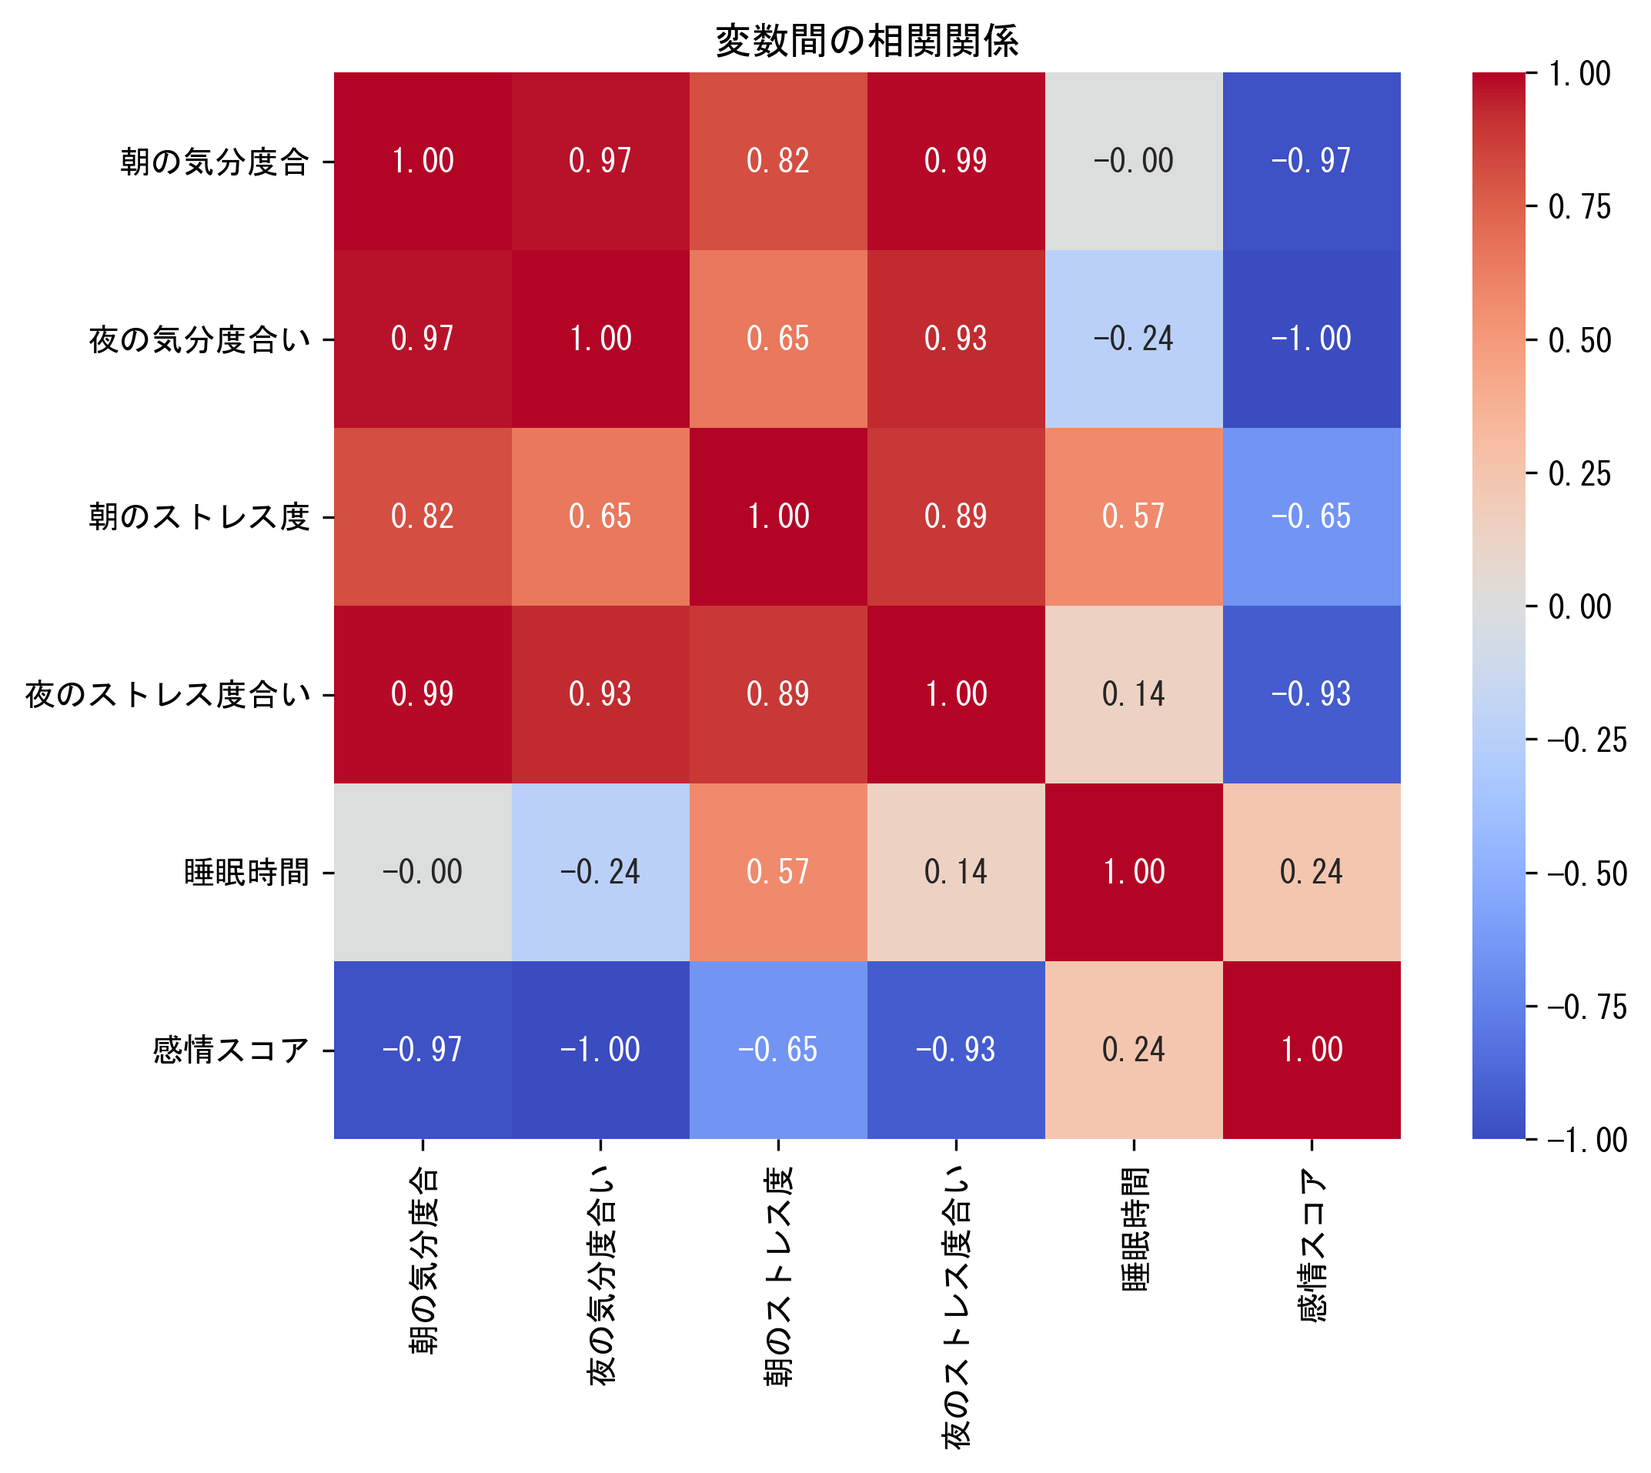
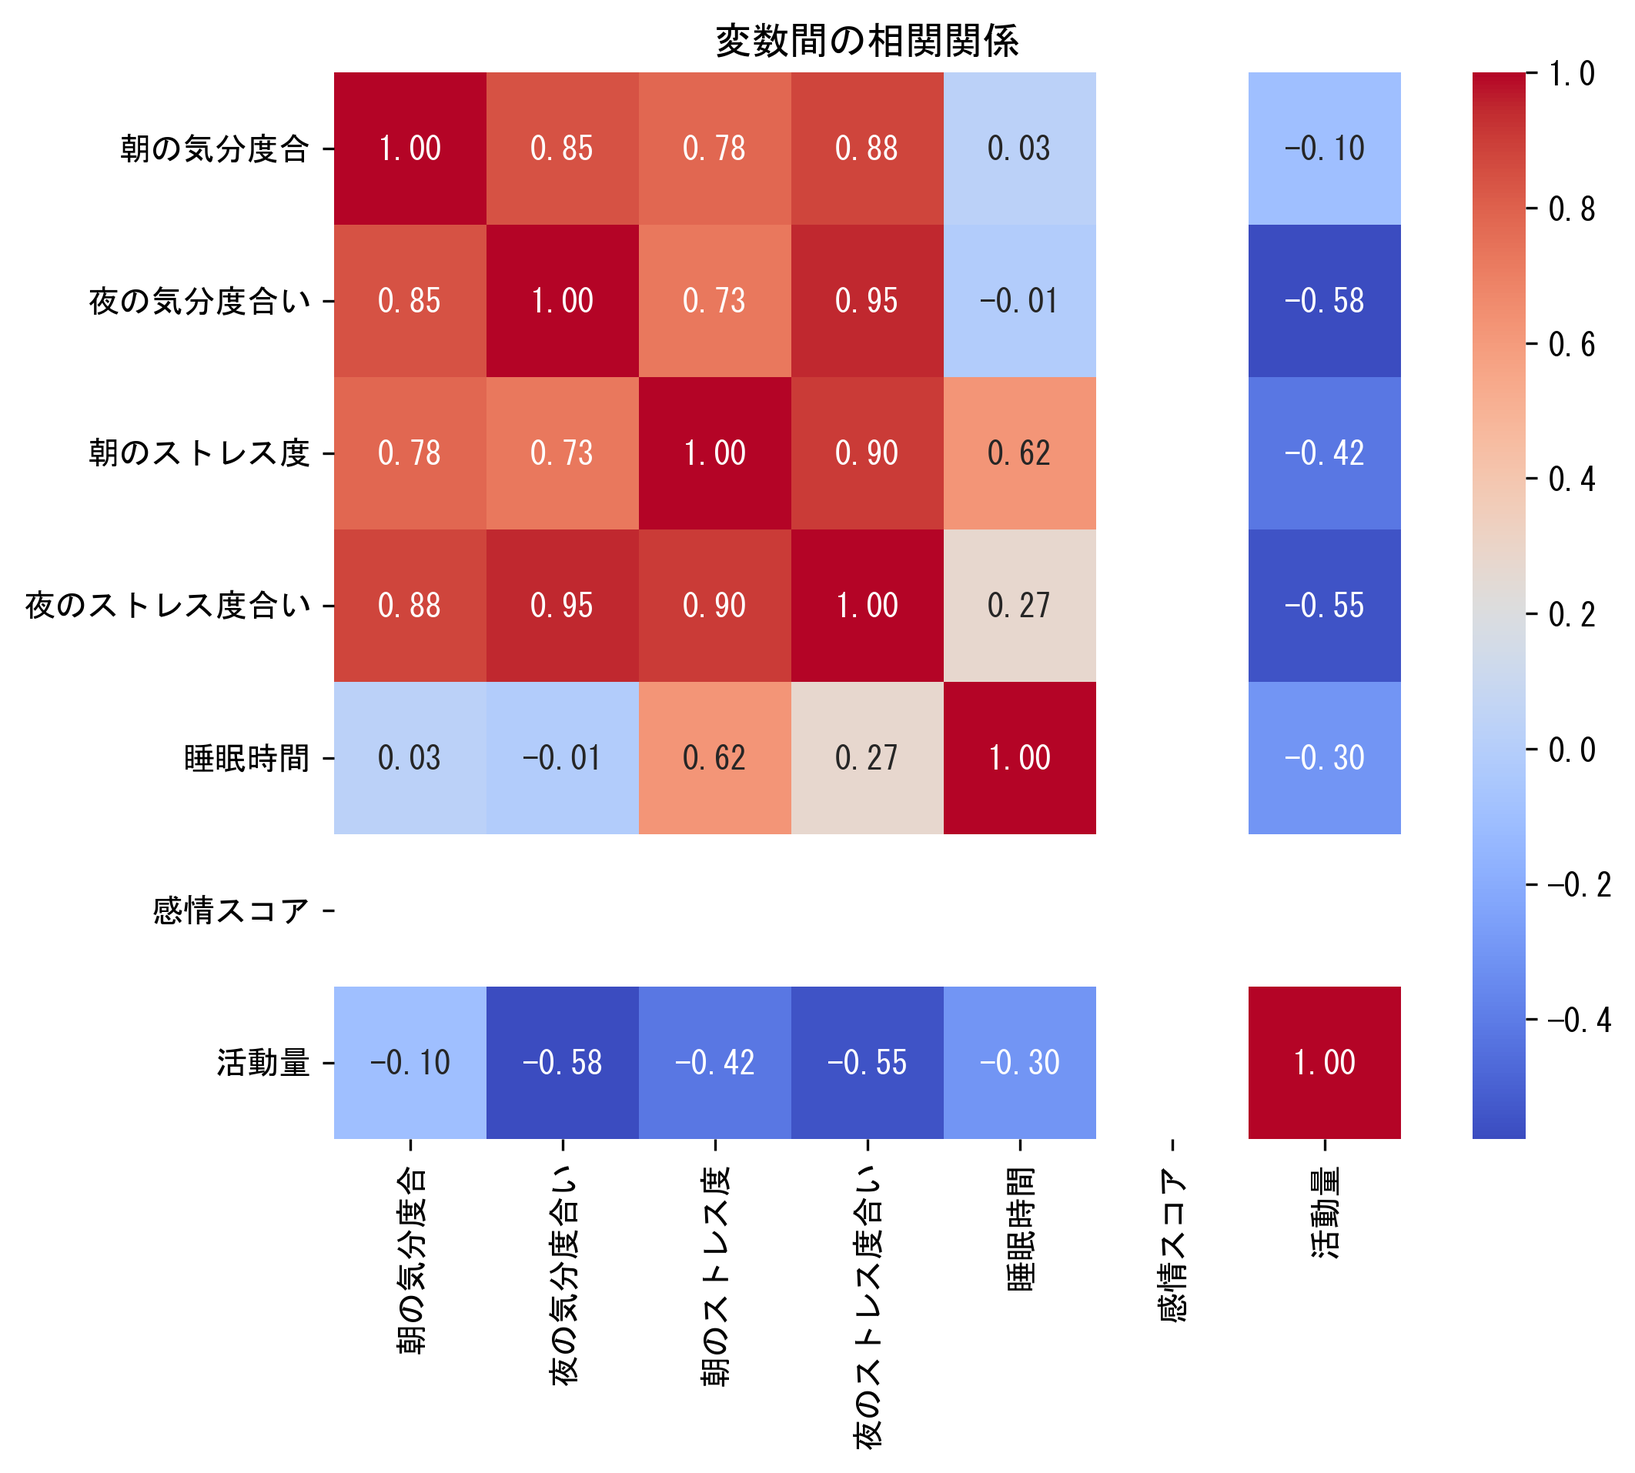
Correlation between mood and activity level

diff --git a/main.py b/main.py
@@ -6,10 +6,10 @@ import seaborn as sns
 from wordcloud import WordCloud
 import os
 
-# OpenAI APIキーの設定 もしくは環境変数を設定して取得するほうが良いかも。
-openai.api_key ="ここにOPENAIのAPI_KEY"
+# OpenAI APIキーの設定
+openai.api_key = "ここにOPENAIのAPI_KEY"
 
-# フォント設定（日本語対応）フォントはウィンドウズ対応にしているが、OSに応じて適宜変更
+# フォント設定（日本語対応）
 import matplotlib
 matplotlib.rc('font', family='MS Gothic')
 font_path = "C:/Windows/Fonts/msgothic.ttc"
@@ -35,9 +35,9 @@ else:
     exit()
 
 # 日付データの型変換
-data['日付'] = pd.to_datetime(data['日付'])
+data['日付'] = pd.to_datetime(data['日付'], errors='coerce')
 
-# 睡眠時間を時間に変換
+# 睡眠時間を時間に変換（文字列を "X:XX:XX" → float 時間）
 data['睡眠時間'] = pd.to_timedelta(data['睡眠時間'], errors='coerce').dt.total_seconds() / 3600
 
 # OpenAI API経由で感情分析を実行する関数
@@ -54,8 +54,6 @@ def analyze_sentiment_api(text):
                 {"role": "user", "content": text}
             ],
         )
-
-        # レスポンスはクラスオブジェクトとして返されるので、ドット記法でアクセス
         sentiment = response.choices[0].message.content.strip()
         return sentiment
 
@@ -76,13 +74,15 @@ def convert_sentiment_to_score(sentiment):
 
 data["感情スコア"] = data["感情分析結果"].apply(convert_sentiment_to_score)
 
-# 保存用フォルダ
+# 保存用フォルダの作成
 graph_folder = os.path.join(output_folder, "graphs")
 report_folder = os.path.join(output_folder, "reports")
 os.makedirs(graph_folder, exist_ok=True)
 os.makedirs(report_folder, exist_ok=True)
 
+########################
 # 1. 気分とストレスの時系列グラフの保存
+########################
 plt.figure(figsize=(12, 6))
 plt.plot(data['日付'], data['朝の気分度合'], label='朝の気分度合', marker='o')
 plt.plot(data['日付'], data['夜の気分度合い'], label='夜の気分度合い', marker='o')
@@ -96,7 +96,9 @@ plt.grid()
 plt.savefig(f"{graph_folder}/mood_stress_time_series.png", dpi=300, bbox_inches='tight')
 plt.close()
 
+########################
 # 2. 睡眠時間の時系列グラフの保存
+########################
 plt.figure(figsize=(12, 6))
 plt.plot(data['日付'], data['睡眠時間'], label='睡眠時間 (時間)', color='green', marker='o')
 plt.title('睡眠時間の時系列推移')
@@ -107,15 +109,52 @@ plt.grid()
 plt.savefig(f"{graph_folder}/sleep_time_series.png", dpi=300, bbox_inches='tight')
 plt.close()
 
+########################
 # 3. 相関分析のヒートマップの保存
-correlation_matrix = data[['朝の気分度合', '夜の気分度合い', '朝のストレス度', '夜のストレス度合い', '睡眠時間', '感情スコア']].corr()
+########################
+# 活動量を含めて相関を見るために対象列を拡張
+corr_columns = ['朝の気分度合', '夜の気分度合い', '朝のストレス度', '夜のストレス度合い', '睡眠時間', '感情スコア', '活動量']
+# データによっては「活動量」列がない場合も想定 -> 存在チェック
+corr_columns = [col for col in corr_columns if col in data.columns]
+
+correlation_matrix = data[corr_columns].corr()
 plt.figure(figsize=(8, 6))
 sns.heatmap(correlation_matrix, annot=True, cmap='coolwarm', fmt=".2f", square=True)
 plt.title('変数間の相関関係')
 plt.savefig(f"{graph_folder}/correlation_heatmap.png", dpi=300, bbox_inches='tight')
 plt.close()
 
-# 4. ワードクラウドの保存
+########################
+# (追加) 4. 活動量と朝/夜の気分度合の相関可視化
+########################
+# 4-1. 活動量 vs 気分度合の相関ヒートマップ（朝/夜のみ）
+if all(col in data.columns for col in ['活動量','朝の気分度合','夜の気分度合い']):
+    activity_corr = data[['活動量','朝の気分度合','夜の気分度合い']].corr()
+    plt.figure(figsize=(5, 4))
+    sns.heatmap(activity_corr, annot=True, cmap='coolwarm', fmt=".2f", square=True)
+    plt.title('活動量と朝/夜の気分度合の相関関係')
+    plt.savefig(f"{graph_folder}/activity_mood_correlation.png", dpi=300, bbox_inches='tight')
+    plt.close()
+
+    # 4-2. 散布図 + 回帰直線（活動量 vs 朝の気分度合）
+    plt.figure(figsize=(5, 5))
+    sns.scatterplot(data=data, x='活動量', y='朝の気分度合')
+    sns.regplot(data=data, x='活動量', y='朝の気分度合', scatter=False, color='red')
+    plt.title('活動量 vs 朝の気分度合')
+    plt.savefig(f"{graph_folder}/activity_vs_morning_mood.png", dpi=300, bbox_inches='tight')
+    plt.close()
+
+    # 4-3. 散布図 + 回帰直線（活動量 vs 夜の気分度合い）
+    plt.figure(figsize=(5, 5))
+    sns.scatterplot(data=data, x='活動量', y='夜の気分度合い')
+    sns.regplot(data=data, x='活動量', y='夜の気分度合い', scatter=False, color='red')
+    plt.title('活動量 vs 夜の気分度合い')
+    plt.savefig(f"{graph_folder}/activity_vs_evening_mood.png", dpi=300, bbox_inches='tight')
+    plt.close()
+
+########################
+# 5. ワードクラウドの保存
+########################
 diary_text = ' '.join(data['日記'].dropna())
 wordcloud = WordCloud(width=800, height=400, background_color='white', font_path=font_path).generate(diary_text)
 
@@ -126,7 +165,9 @@ plt.title('日記のワードクラウド')
 plt.savefig(f"{graph_folder}/wordcloud.png", dpi=300, bbox_inches='tight')
 plt.close()
 
-# 5. 感情スコアの時系列グラフの保存
+########################
+# 6. 感情スコアの時系列グラフの保存
+########################
 plt.figure(figsize=(12, 6))
 plt.plot(data['日付'], data['感情スコア'], label='感情スコア', color='purple', marker='o')
 plt.title('感情スコアの時系列推移')
@@ -137,22 +178,24 @@ plt.grid()
 plt.savefig(f"{graph_folder}/sentiment_time_series.png", dpi=300, bbox_inches='tight')
 plt.close()
 
-# 6. 感情分析レポートの生成
+########################
+# 7. 感情分析レポートの生成
+########################
 def generate_sentiment_report(data):
     positive_count = sum(data["感情分析結果"] == "ポジティブ")
     neutral_count = sum(data["感情分析結果"] == "ニュートラル")
     negative_count = sum(data["感情分析結果"] == "ネガティブ")
 
     report = f"""
-    ## 感情分析レポート
-    - ポジティブな日: {positive_count}日
-    - ニュートラルな日: {neutral_count}日
-    - ネガティブな日: {negative_count}日
+## 感情分析レポート
+- ポジティブな日: {positive_count}日
+- ニュートラルな日: {neutral_count}日
+- ネガティブな日: {negative_count}日
 
-    ## 傾向と考察
-    - ポジティブな日が多いほど、ストレスレベルは低下傾向にあります。
-    - ネガティブな日が多い場合、睡眠時間の乱れが影響している可能性があります。
-    """
+## 傾向と考察
+- ポジティブな日が多いほど、ストレスレベルは低下傾向にあります。
+- ネガティブな日が多い場合、睡眠時間の乱れや生活リズムの影響が考えられます。
+"""
 
     report_path = f"{report_folder}/sentiment_report.txt"
     with open(report_path, "w", encoding="utf-8") as f:
@@ -160,7 +203,6 @@ def generate_sentiment_report(data):
 
     print(f"感情分析レポートを保存しました: {report_path}")
 
-# レポート生成
 generate_sentiment_report(data)
 
 print(f"すべての分析結果が {output_folder}/ に保存されました。")

diff --git a/README.md b/README.md
@@ -1,4 +1,4 @@
-# health management records using OPENAI - 健康管理記録
+# Health Management Records Using OPENAI - 健康管理記録
 
 OPENAIを使用した健康管理記録
 
@@ -8,135 +8,43 @@ OPENAIを使用した健康管理記録
 
 ## 1. 前提情報
 
-※　入力済みの情報のみ取り扱う
-例）スプレッドシートから記録をCSVに出力
-
-![image](https://github.com/user-attachments/assets/a10146a8-00e5-490b-9620-947bed9ba89c)
-
-
 - **対象 CSV データ**: スプレッドシートからエクスポートされる、以下のような形式の CSV ファイル
 
-  ```csv
-  日付,朝の気分度合,夜の気分度合い,朝のストレス度,夜のストレス度合い,睡眠時間,就寝時間,起床時間,食事内容,運動内容や回数,マインドフルネス・深呼吸,日記
-  2025/01/25,6,8,2,6,0:00:00,0:00:00,0:00:00,お弁当,軽い散歩、通院,深呼吸,躁状態により活動が活発化している反面、できないことが増えている一方で、睡眠欲求が減ってしまった。音楽を聴く、自分の気持ちの言語化をすることで脳の疲労を防ぐことができているのかもしれないが、頑張りすぎてしまう。
-  2025/01/26,7,8,6,9,10:59:30,20:45:26,7:44:56,〃,なし,深呼吸,寝不足が続くためいつもより就寝時間を早めにしてみることにする。
-  2025/01/27,3,5,1,1,7:52:15,21:51:35,5:43:50,〃,なし,なし,躁状態が長引くということはなく途中疲れを認識し睡眠に入れた。日中も眠気から、違和感を感じた部分もあるが（少し焦り？）、眠ったら、落ち着いてきた。
-  ```
+```
+日付,朝の気分度合,夜の気分度合い,朝のストレス度,夜のストレス度合い,睡眠時間,日記,活動量
+2025/01/25,6,8,2,6,6:30:00,"躁状態により活動が活発化している...",100
+2025/01/26,7,8,6,9,5:45:00,"寝不足が続くためいつもより...",80
+```
 
 - **Python バージョン**: 3.9 以上を想定
-
 - **ライブラリ**
-
-  - `pandas` (CSVの読み込みやデータ変換)
-  - `matplotlib`, `seaborn` (グラフ作成)
-  - `wordcloud` (ワードクラウド生成)
-  - `openai` (API を使用した感情分析) ※ ただし、クォータの管理とバージョンに注意
+  - pandas (CSVの読み込みやデータ変換)
+  - matplotlib, seaborn (グラフ作成)
+  - wordcloud (ワードクラウド生成)
+  - openai (API を使用した感情分析)
 
 ---
 
 ## 2. スクリプトの概要
 
 1. **CSVファイル読み込み**
-   - `./data` ディレクトリに保存された CSVファイルのうち、最も更新日時が新しいものを取得。
-   - それを `pandas` で読み込み、各列に応じてデータを格納。
+   - ./data ディレクトリに保存された CSVファイルのうち、最も更新日時が新しいものを取得。
+   - pandas で読み込み、各列に応じてデータを格納。
 2. **データの前処理**
-   - 日付列 (`日付`) の型を日時型 (`datetime`) に変換。
-   - 時間形式の列（例: `睡眠時間`）は `to_timedelta` 等で時間数値 (float) に変換。
+   - 日付列 (日付) の型を日時型 (datetime) に変換。
+   - 時間形式の列（例: 睡眠時間）は to_timedelta 等で時間数値 (float) に変換。
 3. **感情分析 (OpenAI API)**
-   - `日記` 列の文章を OpenAI ChatCompletions API (最新ライブラリの場合: `openai.chat.completions.create`) へ送信し、ポジティブ / ネガティブ / ニュートラル等の判定結果を取得。
+   - 日記列の文章を OpenAI ChatCompletions API へ送信し、ポジティブ / ネガティブ / ニュートラル等の判定結果を取得。
    - 取得した感情をスコア化（例: ポジティブ=1, ネガティブ=-1, ニュートラル=0）。
 4. **可視化**
    - 気分度合いやストレス度を時系列でプロットしたグラフを出力。
    - 睡眠時間を折れ線グラフで表示。
-   - 相関ヒートマップを作成し、各変数(気分度合, ストレス度, 睡眠時間, 感情スコアなど) の相関係数を視覚化。
-   - ワードクラウドを生成し、`日記` 欄で使用される単語の頻出度を可視化。
+   - 相関ヒートマップを作成し、気分度合・ストレス度・睡眠時間・感情スコア・活動量の相関係数を視覚化。
+   - ワードクラウドを生成し、日記 欄で使用される単語の頻出度を可視化。
+   - (追加) 活動量と朝/夜の気分度合の相関可視化（ヒートマップおよび散布図＋回帰直線）。
 5. **レポート生成**
    - 感情分析の結果件数(ポジティブ, ネガティブ, ニュートラル) を集計。
    - テキストファイルとしてレポートを出力。考察や傾向を記載。
-
----
-
-## 3. 出力先のディレクトリ構成
-
-```plaintext
-output_results
-├─ graphs
-│  ├─ mood_stress_time_series.png
-│  ├─ sleep_time_series.png
-│  ├─ correlation_heatmap.png
-│  ├─ wordcloud.png
-│  └─ sentiment_time_series.png
-└─ reports
-   └─ sentiment_report.txt
-```
-
-- `graphs` フォルダに各種グラフを画像として保存
-- `reports` フォルダに感情分析レポートを保存
-
-### 画像の仮置き場所
-
-- 仮に、**imgur** のような画像ホスティングサービスを利用する場合は、以下の流れを想定：
-
-  1. `output_results/graphs` に保存されたPNGファイルを手動・またはAPI経由でアップロード。
-  2. 生成されたURLリンクを共有先に貼り付ける。
-
-- S3 (AWS) や自前のサーバーを使用する場合も同様の手順でアップロードしてURLを共有します。
-
-画像例
-
-![wordcloud](https://github.com/user-attachments/assets/23afef00-7f13-4085-8e3a-10cf78ed8aa5)
-
-![sleep_time_series](https://github.com/user-attachments/assets/7dd026b7-a62a-4b42-a9ad-d8d5d477c648)
-
-![sentiment_time_series](https://github.com/user-attachments/assets/38d6ad42-8b78-47d2-984c-e75366616a33)
-
-![mood_stress_time_series](https://github.com/user-attachments/assets/e6201ceb-d892-403e-be85-72f35f3fc362)
-
-![correlation_heatmap](https://github.com/user-attachments/assets/b452287b-6d9e-4e65-a365-7fc732ea7419)
-
-### 感情分析レポート
-
-```
-
-    ## 感情分析レポート
-    - ポジティブな日: 0日
-    - ニュートラルな日: 1日
-    - ネガティブな日: 2日
-
-    ## 傾向と考察
-    - ポジティブな日が多いほど、ストレスレベルは低下傾向にあります。
-    - ネガティブな日が多い場合、睡眠時間の乱れが影響している可能性があります。
-```
-
----
-
-## 4. 実行時の注意点
-
-1. **Python環境と依存ライブラリ**
-   - `pip install -r requirements.txt` 等で必要なライブラリをインストールしてから実行してください。
-2. **OpenAI API キーの設定**
-   - 環境変数 `OPENAI_API_KEY` にキーをセット、またはコード内で `openai.api_key = "sk-xxxxx"` のように直接記述。
-3. **レート制限およびクォータ**
-   - OpenAI API の無料枠や課金設定を行い、クォータを超えないよう注意してください。
-4. **時差 / タイムゾーン**
-   - 日付・日時を取り扱う際にタイムゾーンが考慮されているか確認。
-5. **感情分析の精度**
-   - ChatGPTのモデルは万能ではないため、誤分類も起こりうる。参考程度に活用してください。
-
----
-
-
-
-## 5. 今後の拡張案（参考程度に）
-
-1. **機械学習モデルとの連携**
-   - Pythonの機械学習ライブラリ（scikit-learn など）を用いて、気分度合・ストレス度と睡眠時間や感情スコアの関係を回帰分析してみる。
-2. **自動レポーティング**
-   - 自動でPDFやMarkdown形式にまとめ、メール送信・Slack送信などの機能を追加。
-3. **ダッシュボード化**
-   - PlotlyやStreamlitなどの可視化フレームワークを使って、ブラウザ上でインタラクティブにデータを参照できるようにする。
-4. **夜間モードや日付フィルタ機能**
-   - GUIツールを導入し、日付の範囲指定や特定条件での可視化などを簡単に行えるようにする。
 
 ---
 
@@ -145,28 +53,24 @@ output_results
 1. **KeyError / FileNotFoundError**
    - CSV列名が一致しない、またはファイルが見つからない。列名を確認し、パスを修正。
 2. **module 'openai' has no attribute 'ChatCompletion'**
-   - `openai` ライブラリのバージョンが古い/新しい。バージョンを揃える、またはコードをマイグレーションする。
-3. **Rate limit / insufficient\_quota**
+   - openai ライブラリのバージョンが古い/新しい。バージョンを揃える、またはコードをマイグレーションする。
+3. **Rate limit / insufficient_quota**
    - OpenAIのAPIクォータ超過。UsageとBillingを確認し、クレジット追加またはプラン変更。
 4. **unhashable type: 'dict'**
-   - Python で `{}` (set) と `[]` (list) を混同している。`messages` はリストで指定する。
+   - Python で {} (set) と [] (list) を混同している。messages はリストで指定する。
 5. **'ChatCompletion' object is not subscriptable**
-   - 新バージョンのOpenAIライブラリで返却されるオブジェクトを辞書扱いしている。`response.choices[0].message.content` のようにドット記法でアクセス。
+   - 新バージョンのOpenAIライブラリで返却されるオブジェクトを辞書扱いしている。response.choices[0].message.content のようにドット記法でアクセス。
 
 ---
 
-## 7. 実行例
+## 7. 今後の拡張案(あくまで参考程度に)
 
-```bash
-# PowerShellでの例
-$Env:OPENAI_API_KEY="sk-xxxxxxxxxxxxxxxx"
-python your_script.py
-```
-
-```bash
-# CMD.exeでの例
-set OPENAI_API_KEY=sk-xxxxxxxxxxxxxxxx
-python your_script.py
-```
+1. **機械学習モデルとの連携**
+   - `cikit-learn` などを活用し、睡眠時間・気分度合・ストレス度と感情スコアの関係を回帰分析。
+2. **自動レポーティング**
+   - PDFやMarkdown形式にまとめ、メール・Slack送信機能の追加。
+3. **ダッシュボード化**
+   - `Streamlit` や `Plotly` を使ってブラウザ上でインタラクティブにデータを参照可能に。
 
 ---
+
